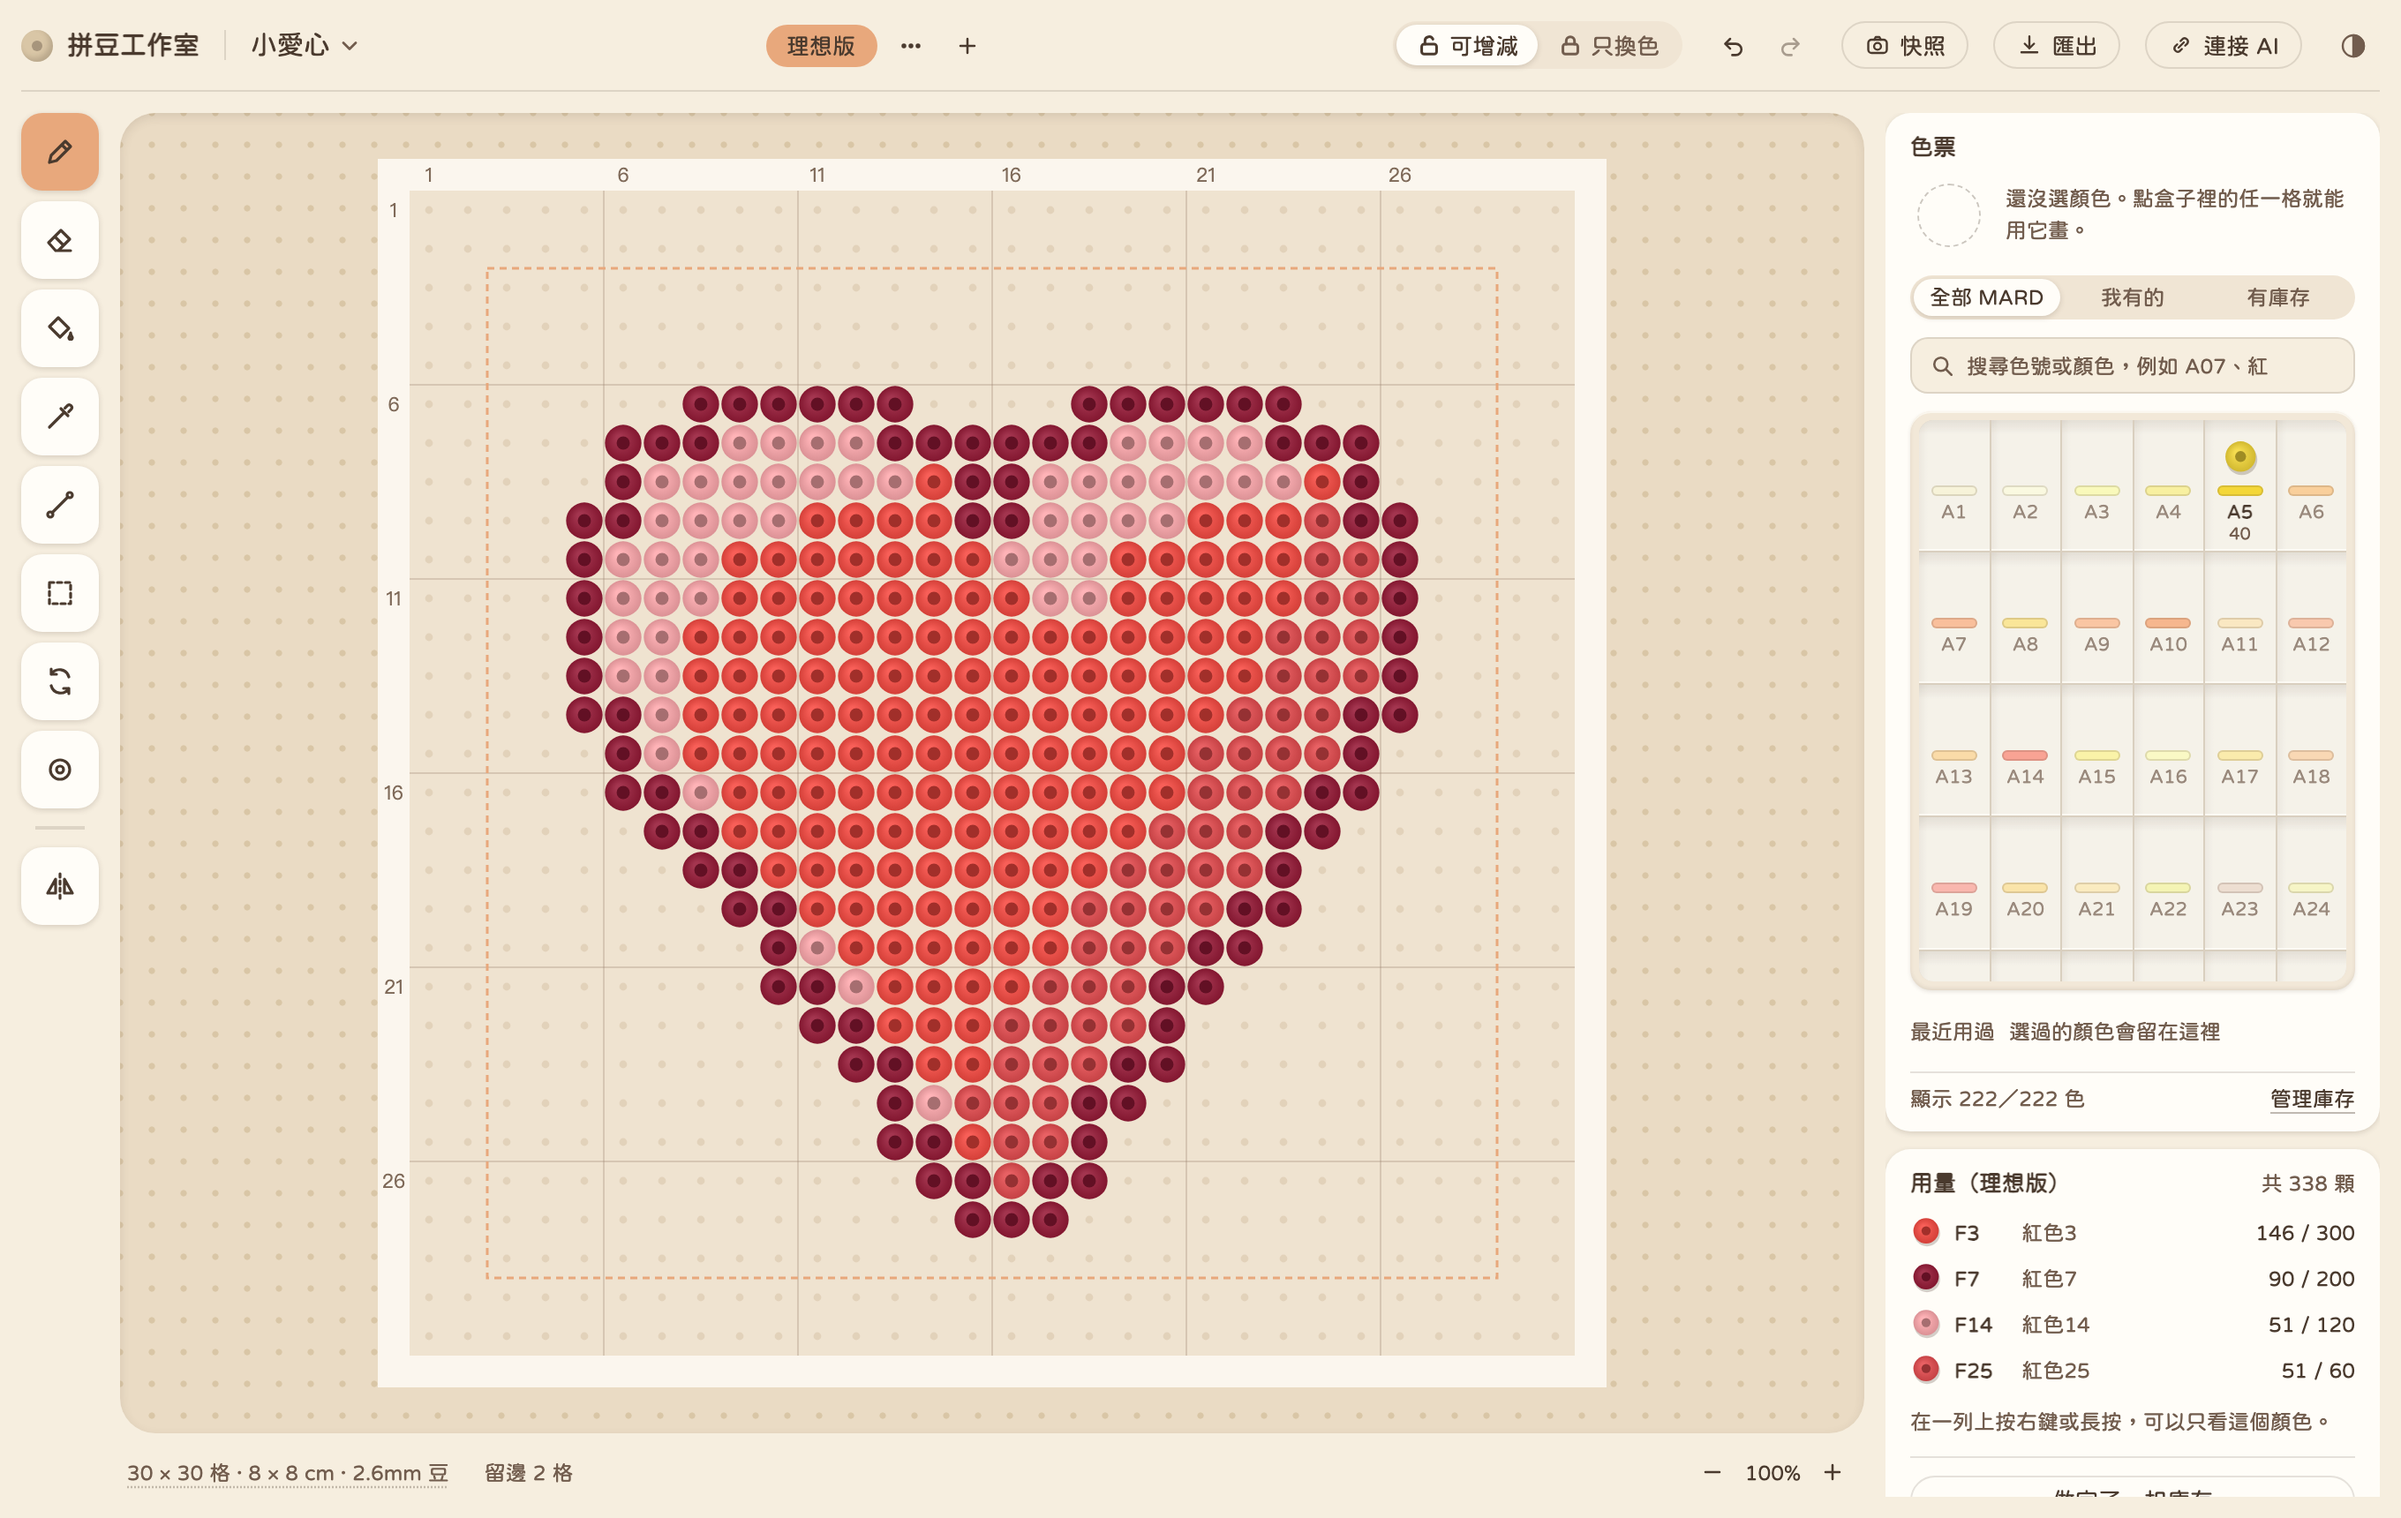
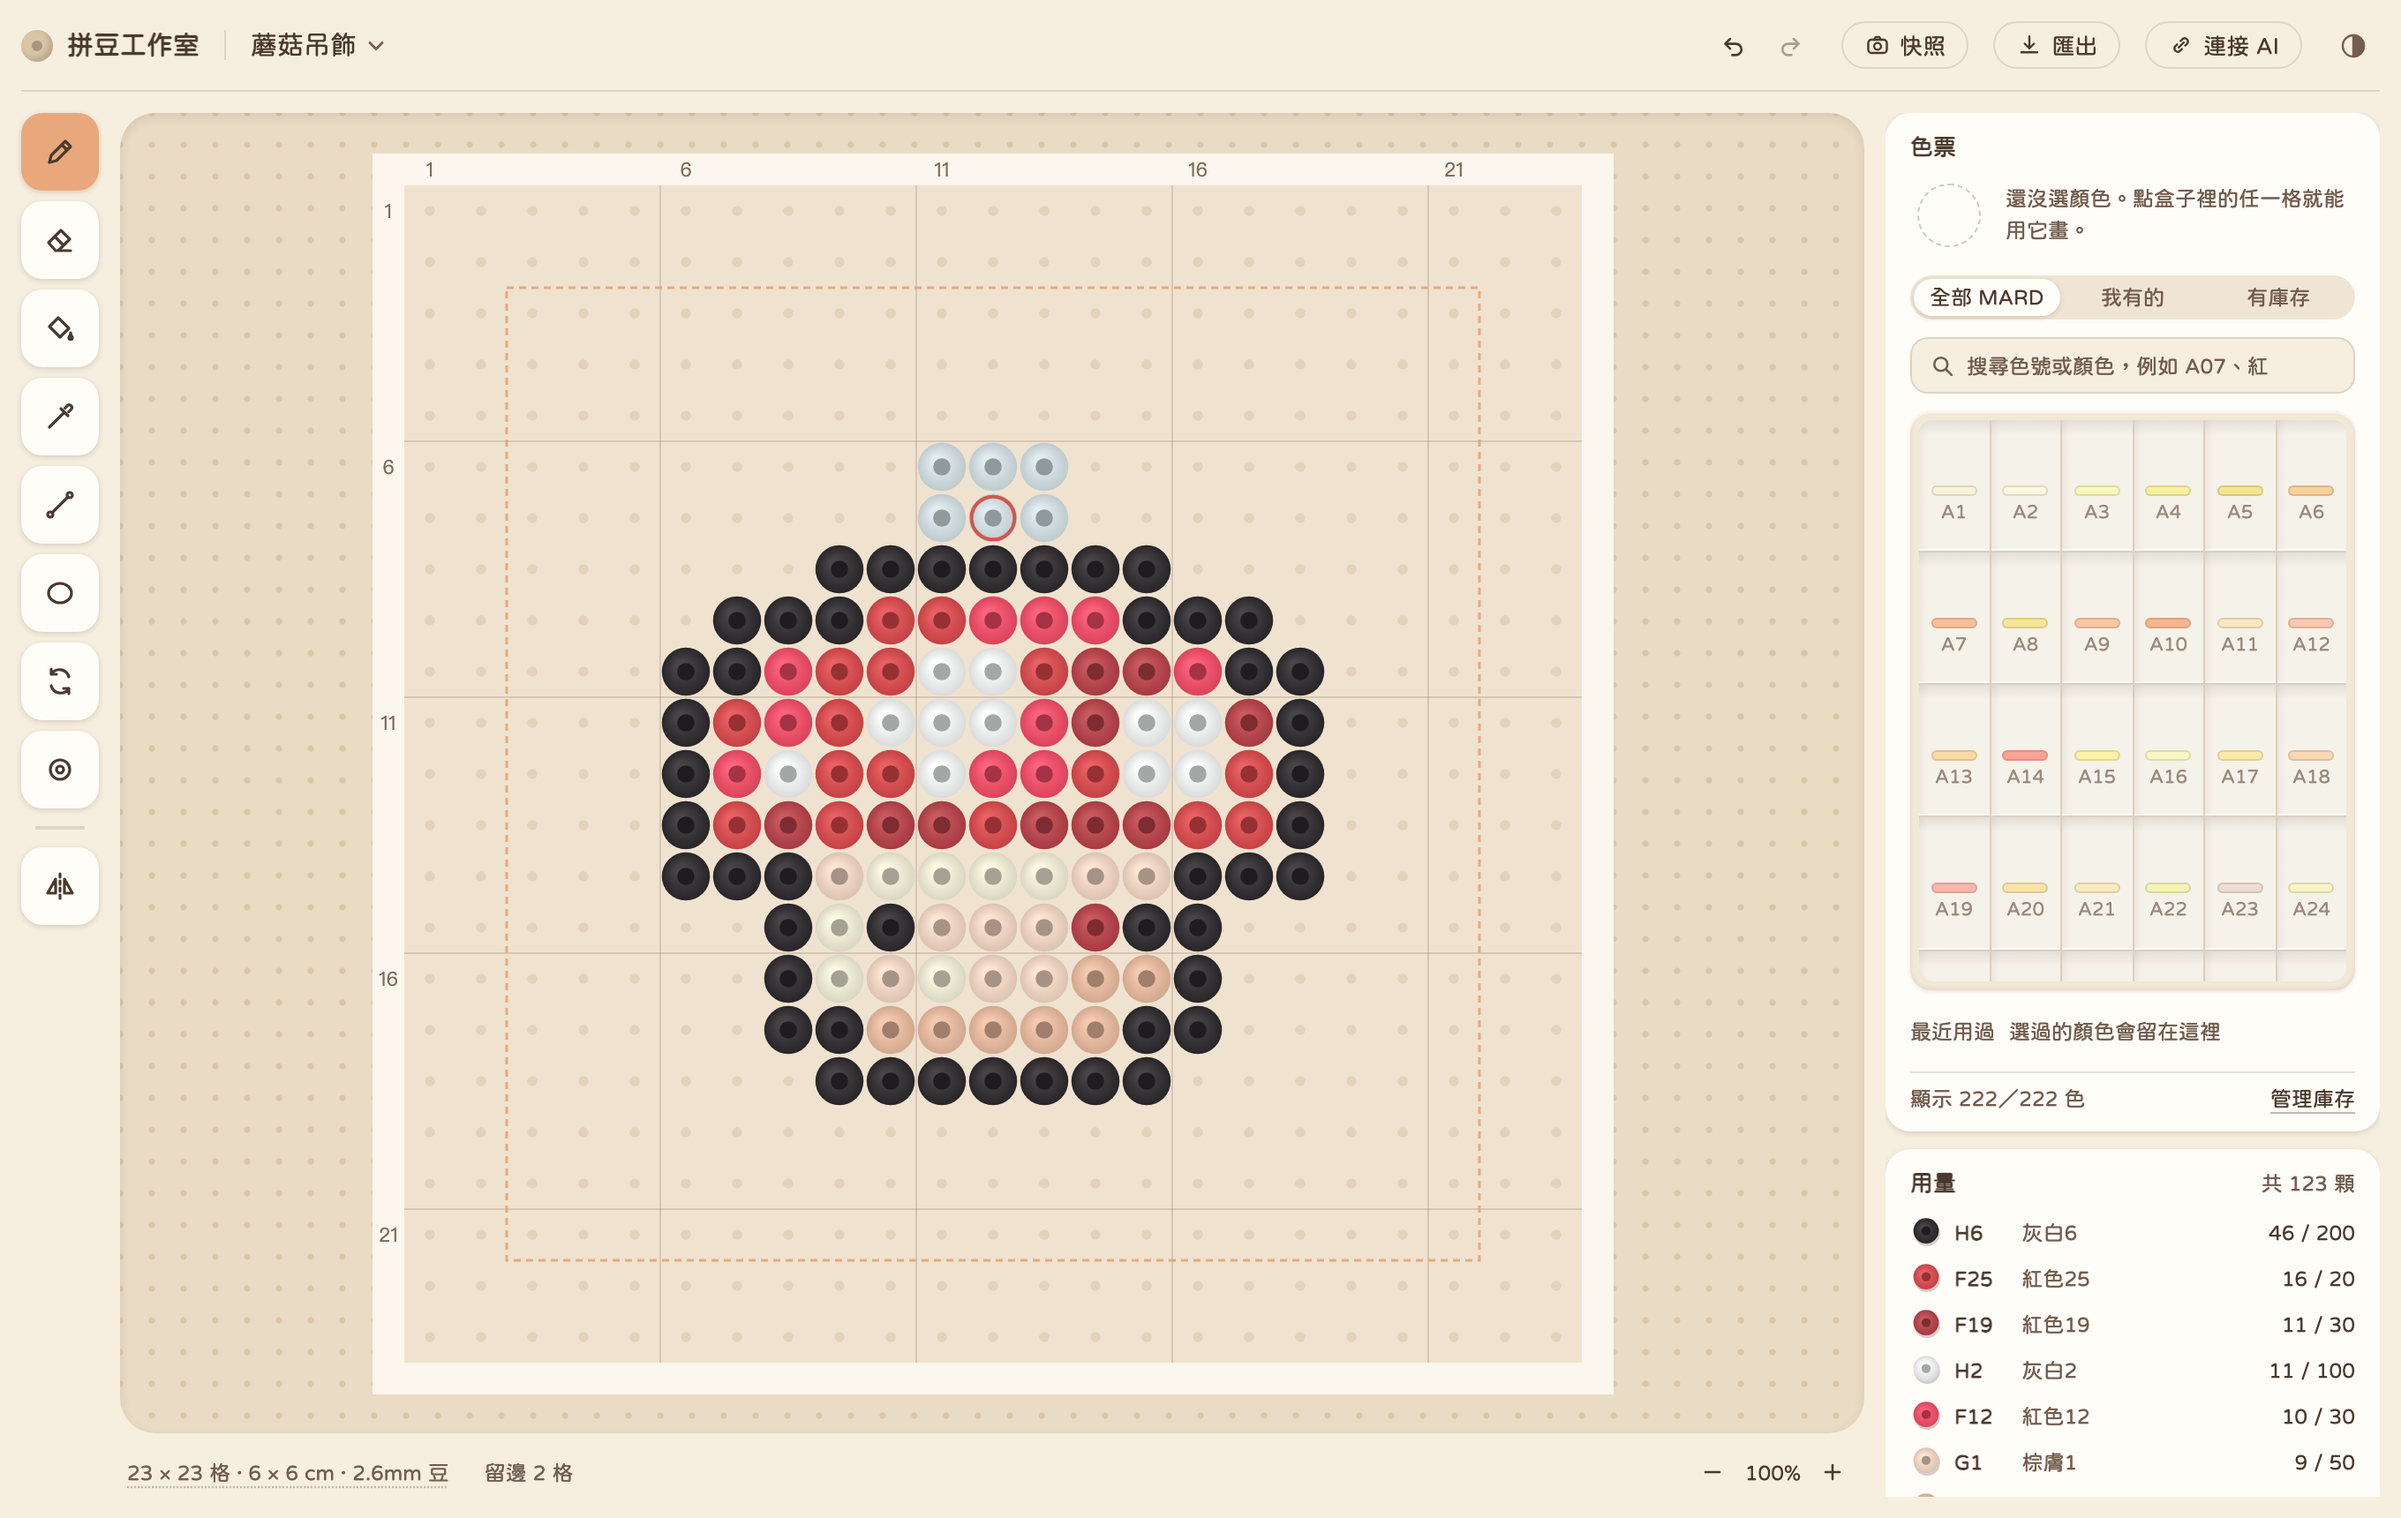
docs: refresh README for GitHub and retake the screenshot

diff --git a/README.md b/README.md
@@ -1,29 +1,30 @@
 # 🫘 豆豆工作室 Bead Studio
 
-AI 協作的拼豆設計工具。
-
-## 啟動
-
-需要 Node.js ≥ 24。
-
-```bash
-pnpm install
-pnpm start          # http://localhost:5174
-```
-
-## 網頁介面
+AI 協作的拼豆（Perler／MARD）設計工具。在 Claude Code 裡請 AI 設計圖案，網頁上會即時看到 AI 畫的每一筆；你也可以在網頁上自己微調，AI 馬上讀得到。
 
 ![豆豆工作室網頁介面](docs/screenshot.png)
 
-- 開發：`pnpm dev`（同時啟動伺服器與 Vite），開 http://localhost:5173。
-- 正式使用：`pnpm build:web && pnpm start`，或用下面的 Docker，開 http://localhost:5174。
-- 編輯區有畫筆、橡皮擦、油漆桶、吸管、直線、圓形、全域換色、掛孔等工具；右側是色票、用量與檢查結果。作品只有一組設計；缺少的顏色或數量會在檢查結果中提醒。亮色與暗色模式可從右上角切換，豆子的顏色不會跟著變。
-- AI 透過 MCP 改的設計會即時出現在網頁上（不用重新整理），被改到的豆子會跳一下。網頁上的每個修改也走同一套工具，AI 馬上讀得到。
-- 右上角的「連接 AI」會顯示要貼進 Claude Code 的指令。
-- 把圖片（含 bead-studio metadata 的 PNG 或一般圖片）拖進網頁就能匯入。
-- 庫存頁（色票面板下方的「管理庫存」）可以勾選擁有的顏色、填顆數（也能秤重換算顆數），並校正各色的顯示色。用量面板的「做完了，扣庫存」會在你拼完作品後，依用量扣掉庫存。
+## 特色
 
-## 用 Docker 執行
+- **AI 設計**：透過 MCP 提供 19 個工具，AI 可以建立作品、批次畫圖、匯入圖片、檢查結構與預覽成品。專案內附設計知識（`.claude/skills/bead-design`），涵蓋配色、描邊、明暗、掛孔與尺寸。
+- **即時同步**：AI 的修改會即時出現在網頁上，不用重新整理，被改到的豆子會跳一下。網頁上的修改也走同一套工具。
+- **網頁編輯器**：提供畫筆、橡皮擦、油漆桶、吸管、直線、圓形、全域換色、掛孔等工具，支援復原／重做、快照、鏡像檢視、亮暗模式，也能預覽 3D 成品。
+- **庫存管理**：勾選擁有的顏色、填顆數（也能秤重換算）。用量面板會顯示每色需要多少、還缺多少；拼完作品後，按「做完了，扣庫存」會依用量扣掉庫存。
+- **檢查器**：檢查留邊、浮豆、易斷的細線、掛孔位置、缺料，以及相鄰顏色太接近的地方。
+- **圖片匯入**：適合卡通和線稿圖。支援去背（可指定多種背景色）、每格取主要顏色、加粗細線、清雜點、裁切與排除區塊。
+- **匯出**：可匯出成品圖、施工圖、3D 預覽的 PNG。PNG 內含作品資料，拖回網頁就能還原。
+
+## 快速開始
+
+需要 Node.js ≥ 24 與 pnpm。
+
+```bash
+pnpm install
+pnpm build:web
+pnpm start          # http://localhost:5174
+```
+
+或用 Docker：
 
 ```bash
 mkdir -p ~/BeadStudio        # 匯入／匯出圖片的交換資料夾
@@ -33,9 +34,9 @@ docker compose down          # 停止
 ```
 
 - 埠只開在本機（`127.0.0.1:5174`）。
-- `data/`、`config/` 掛進容器，作品與庫存都留在這個資料夾裡；AI 改了 `config/checks.json` 後執行 `docker compose restart` 生效。
-- `~/BeadStudio` 以相同的絕對路徑掛進容器；`import_image`／`export_png` 只能使用這個資料夾裡的檔案。
-- 更新程式碼後重新執行 `docker compose up -d --build`。
+- `data/`、`config/` 掛進容器，作品與庫存都留在這個資料夾裡。AI 改了 `config/checks.json` 後，執行 `docker compose restart` 生效。
+- `~/BeadStudio` 以相同的絕對路徑掛進容器。`import_image`／`export_png` 只能使用這個資料夾裡的檔案。
+- 更新程式碼後，重新執行 `docker compose up -d --build`。
 - 若把主機埠改成 5174 以外，記得在 `BEADS_ALLOWED_HOSTS` 加上 `localhost:新埠`。
 
 ## 連接 Claude Code
@@ -44,7 +45,54 @@ docker compose down          # 停止
 claude mcp add --transport http beads http://localhost:5174/mcp
 ```
 
-在這個資料夾裡啟動 Claude Code，就會自動載入 `.claude/skills/bead-design` 設計知識。
+在這個資料夾裡啟動 Claude Code，就會自動載入 `.claude/skills/bead-design` 的設計知識。網頁右上角的「連接 AI」也會顯示這行指令。
+
+開始設計前，AI 會先問你兩件事：
+1. 只用有的顏色嗎？
+2. 只用有的數量嗎？
+
+畫完後，它會依檢查器的缺料提醒自己修正，直到符合你的要求。
+
+### MCP 工具
+
+| 類別 | 工具 |
+|---|---|
+| 作品 | `list_designs`、`open_design`、`new_design`、`set_board` |
+| 讀取與預覽 | `get_design`、`describe_design`、`render_preview`、`run_checks` |
+| 修改 | `apply_ops`（一次送一整批指令，整批算一步復原）、`undo`、`redo`、`snapshot`、`restore_snapshot` |
+| 顏色與庫存 | `get_palette`、`calibrate_color`、`set_inventory`、`deduct_inventory` |
+| 圖片 | `import_image`、`export_png` |
+
+`apply_ops` 的指令有：
+- 繪製：`paste`（用字元畫圖）、`rect`、`ellipse`、`line`、`polygon`、`fill`
+- 換色與清除：`replace_color`、`clear`
+- 搬移變形：`move`、`mirror`、`rotate`
+- 效果：`outline`、`gradient`、`shade`
+- 掛孔：`set_hole`
+
+### 匯入圖片的選項
+
+| 選項 | 說明 |
+|---|---|
+| `removeBg` | 去掉從圖片外圍連進來的背景，被外框圍住的同色區塊（例如白色身體）會保留 |
+| `bgColors`、`bgTolerance` | 另外指定背景色（例如白底外的淡藍天空），以及去背的色差容許值 |
+| `colors` | 只用這些色號轉換 |
+| `crop`、`exclude` | 只取原圖某一塊；把原圖上的區塊（例如文字）當背景略過 |
+| `sampling: "dominant"` | 每格取最多像素對到的顏色，不會平均出灰邊 |
+| `lineBoost` | 一格裡深色佔這個比例以上就整格用深色，細線不會斷（卡通建議 0.3） |
+| `cleanup` | 把小於 N 顆、而且和周圍顏色相近的雜點併掉（建議 3） |
+| `dither` | 抖色，用相近的顏色交錯排列來模擬漸層（適合照片） |
+
+## 開發
+
+```bash
+pnpm dev        # 同時啟動伺服器與 Vite，開 http://localhost:5173
+pnpm test       # 單元測試（vitest）
+pnpm e2e        # 網頁測試（Playwright；先 pnpm build:web）
+pnpm typecheck
+```
+
+技術：TypeScript、Fastify、MCP SDK（Streamable HTTP）、React、Vite、@napi-rs/canvas。
 
 ## 環境變數
 
@@ -61,4 +109,9 @@ claude mcp add --transport http beads http://localhost:5174/mcp
 
 ## 使用者資料
 
-作品（`data/designs/`）、目前開啟狀態（`data/state.json`）與庫存（`data/inventory.json`）都存在 `data/` 底下，不會被 commit；只有色表 `data/palette.json` 納入版本控制。
+以下資料都存在 `data/` 底下，不會被 commit：
+- 作品：`data/designs/`
+- 目前開啟的作品：`data/state.json`
+- 庫存：`data/inventory.json`
+
+只有色表 `data/palette.json` 納入版本控制，色號來源見 `data/PALETTE_SOURCES.md`。
